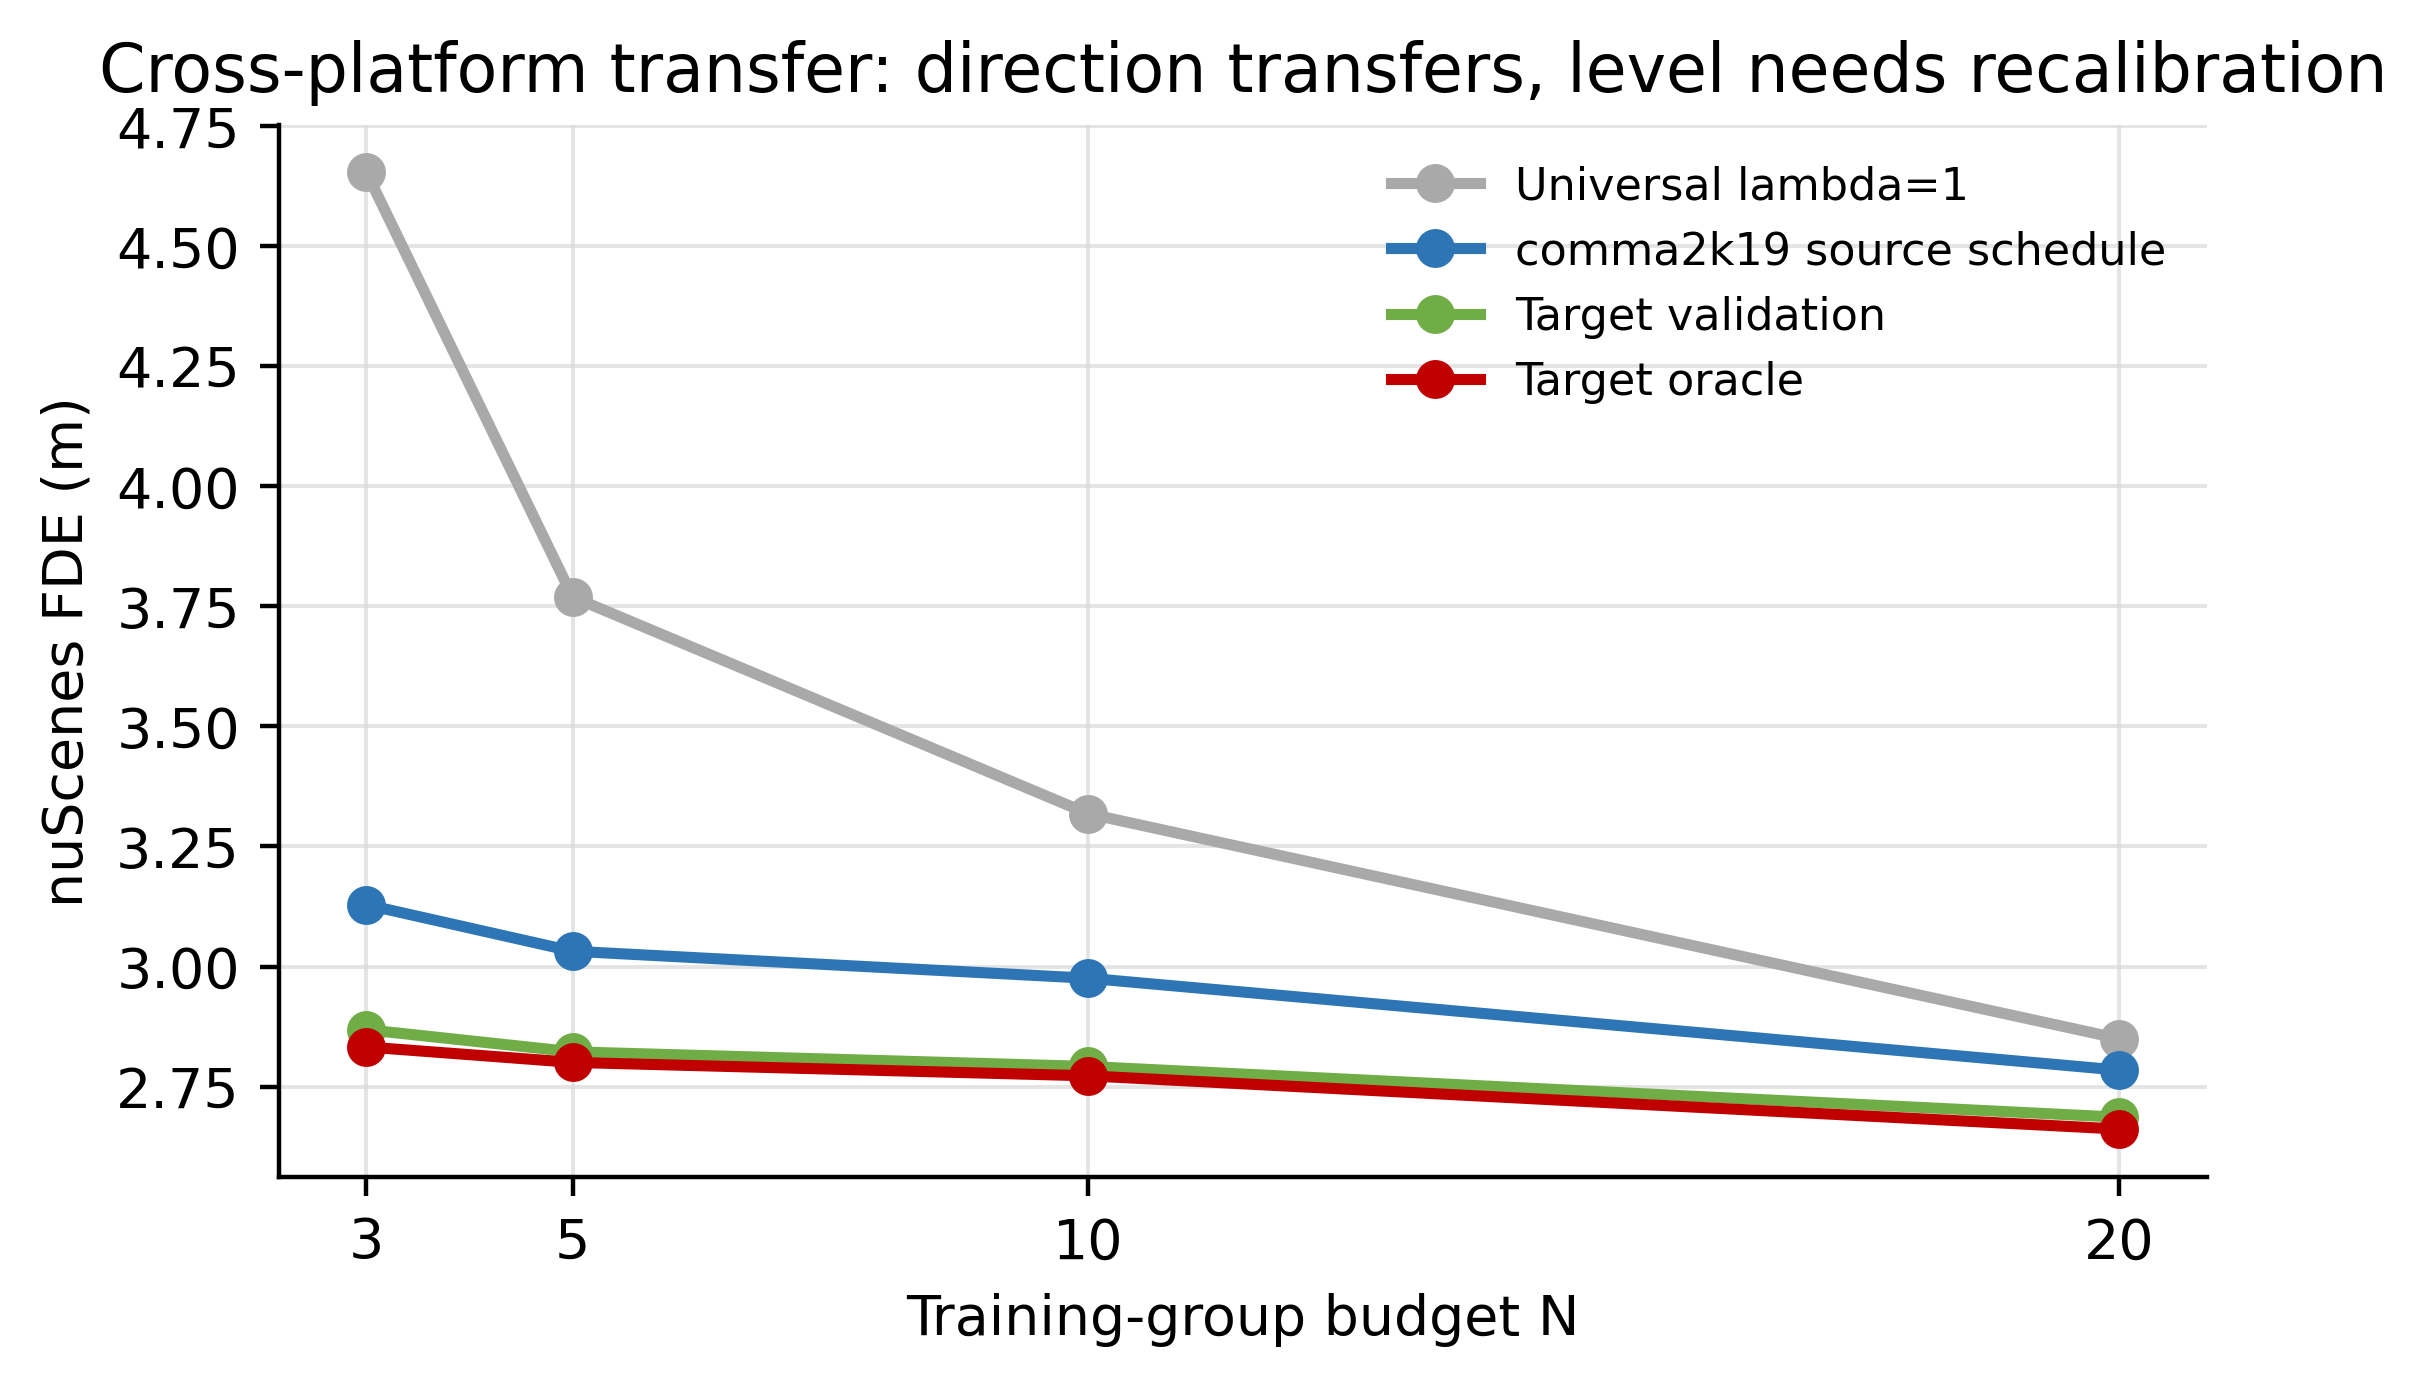
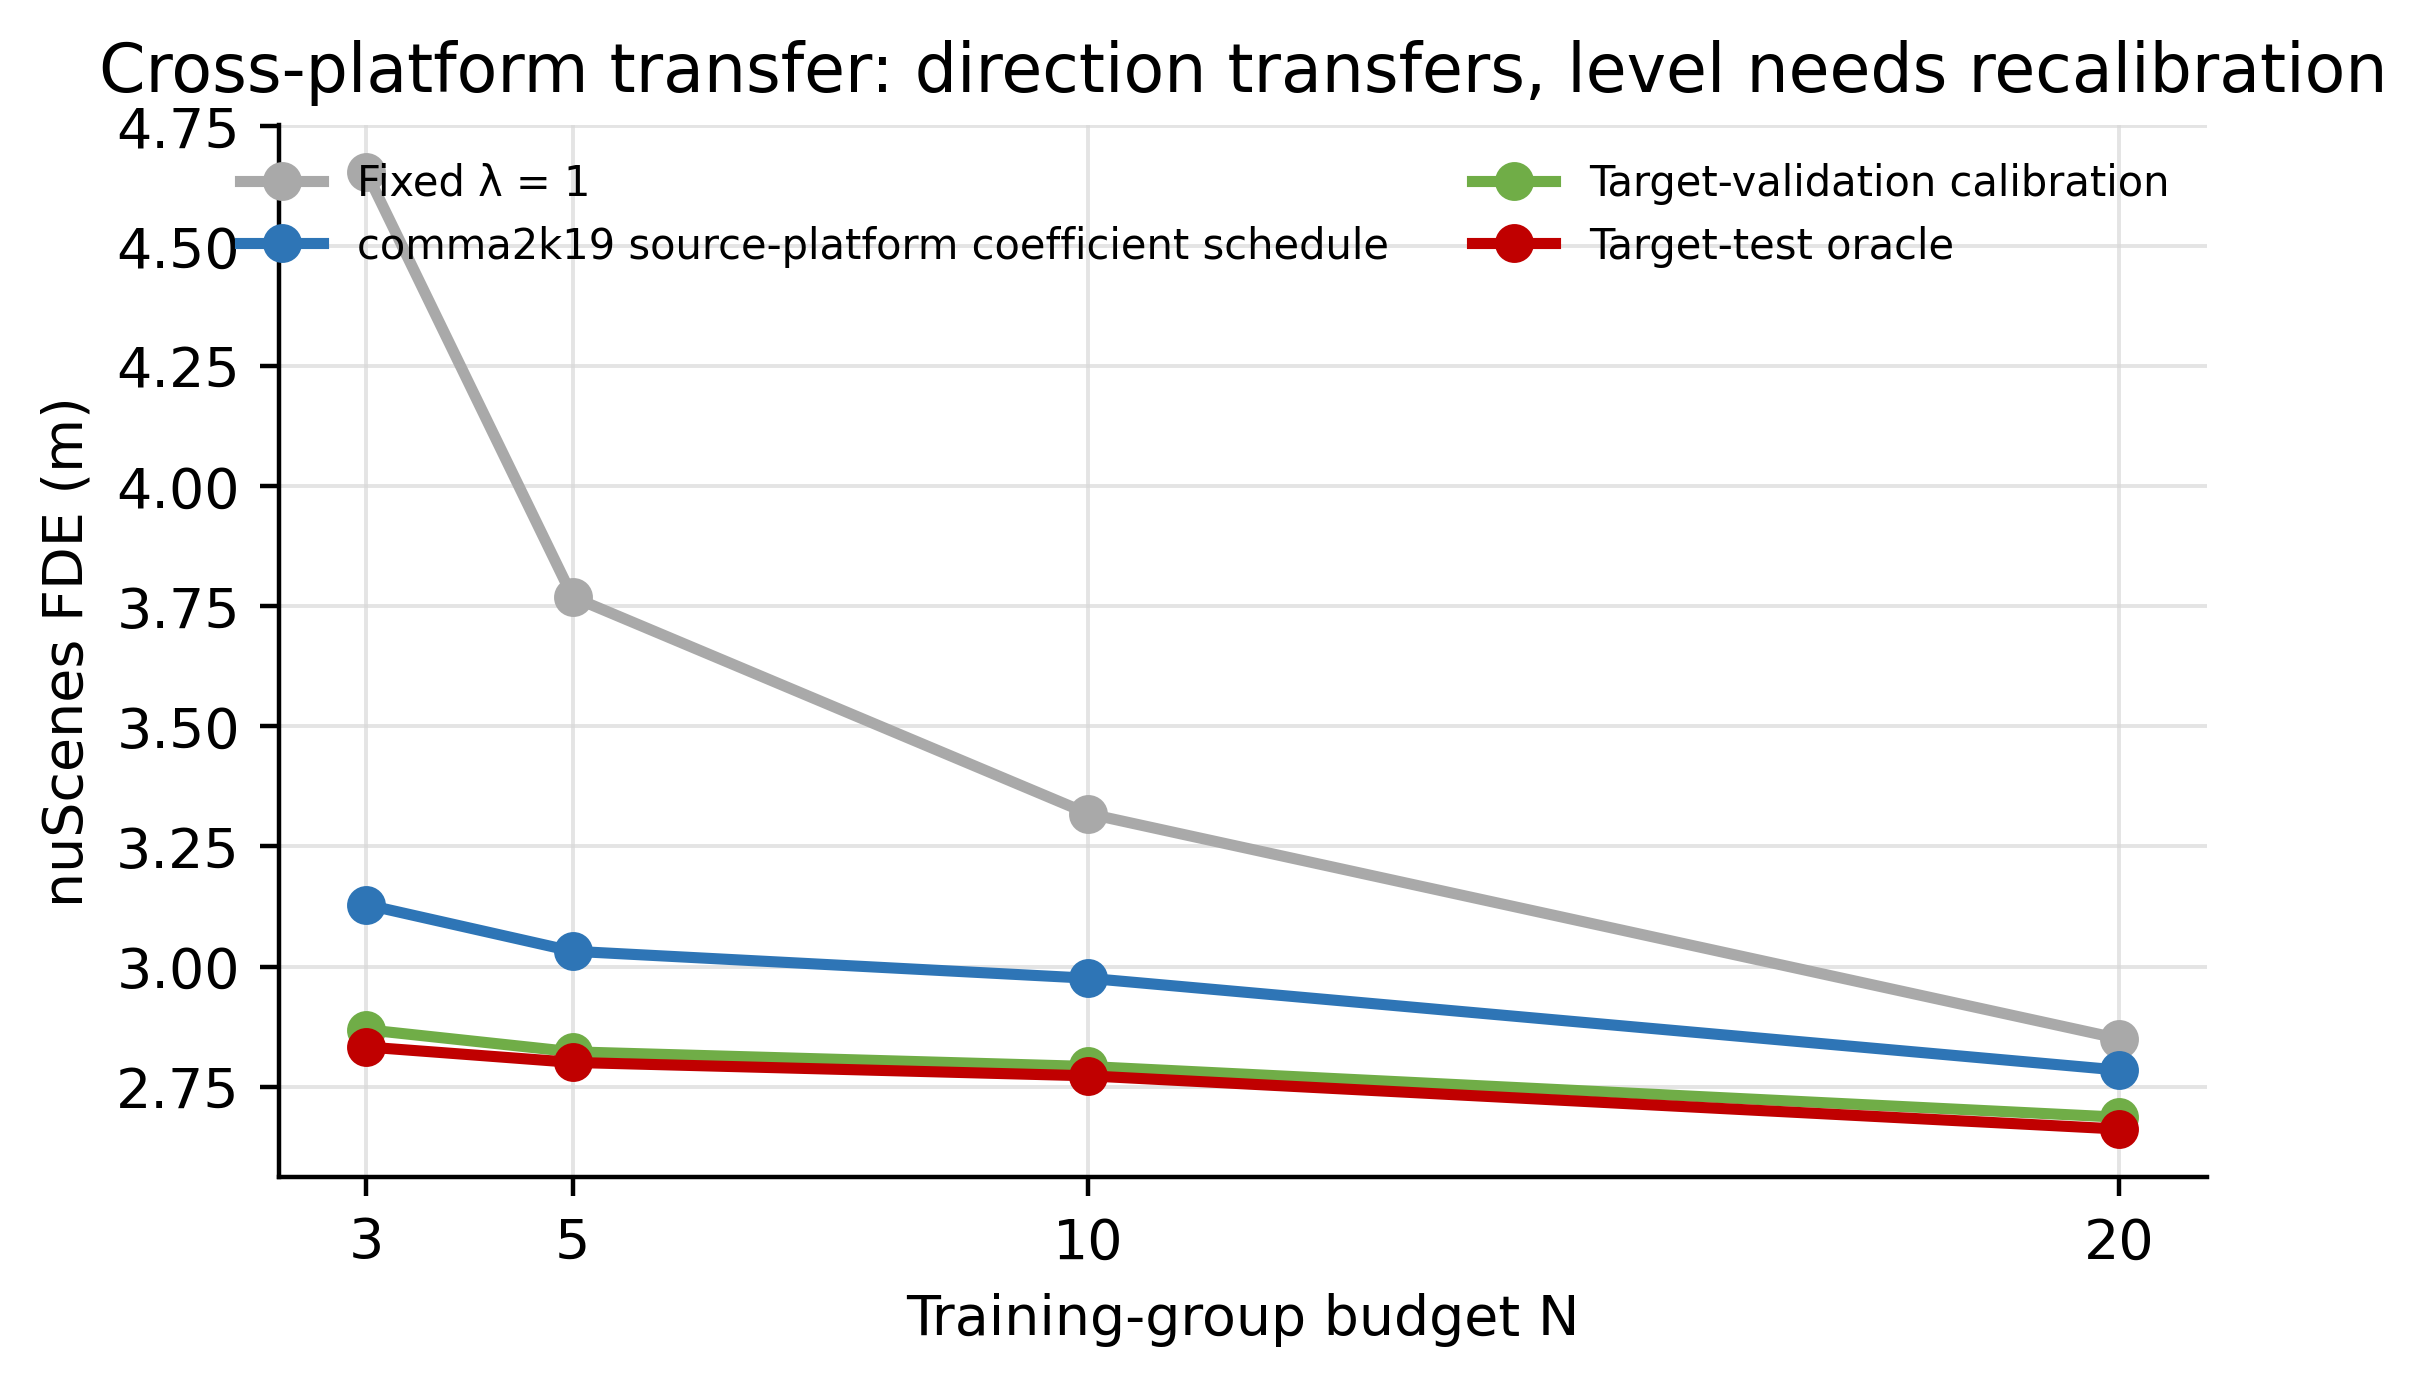
Align manuscript figure terminology

Changed region(s): [[0.0927, 0.1241, 0.8962, 0.3102]]

diff --git a/src/plot_manuscript_figures.py b/src/plot_manuscript_figures.py
@@ -86,17 +86,17 @@ def fig_transfer(out: Path) -> None:
     oracle = vals("oracle_fde_mean", "fde_oracle", "target_oracle_fde", "fde_target_oracle")
     fig, ax = plt.subplots(figsize=(5.5, 3.35), constrained_layout=True)
     for y, label, color in [
-        (universal, "Universal lambda=1", "#A9A9A9"),
-        (source, "comma2k19 source schedule", "#2E75B6"),
-        (target, "Target validation", "#70AD47"),
-        (oracle, "Target oracle", "#C00000"),
+        (universal, "Fixed λ = 1", "#A9A9A9"),
+        (source, "comma2k19 source-platform coefficient schedule", "#2E75B6"),
+        (target, "Target-validation calibration", "#70AD47"),
+        (oracle, "Target-test oracle", "#C00000"),
     ]:
         ax.plot(ns, y, marker="o", linewidth=2, label=label, color=color)
     ax.set_xticks(ns, [str(n) for n in ns])
     ax.set_xlabel("Training-group budget N")
     ax.set_ylabel("nuScenes FDE (m)")
     ax.set_title("Cross-platform transfer: direction transfers, level needs recalibration")
-    style_axis(ax); ax.legend(frameon=False, fontsize=8)
+    style_axis(ax); ax.legend(frameon=False, fontsize=7.5, ncol=2)
     save(fig, out, "Fig_3_cross_platform_transfer")
 
 
